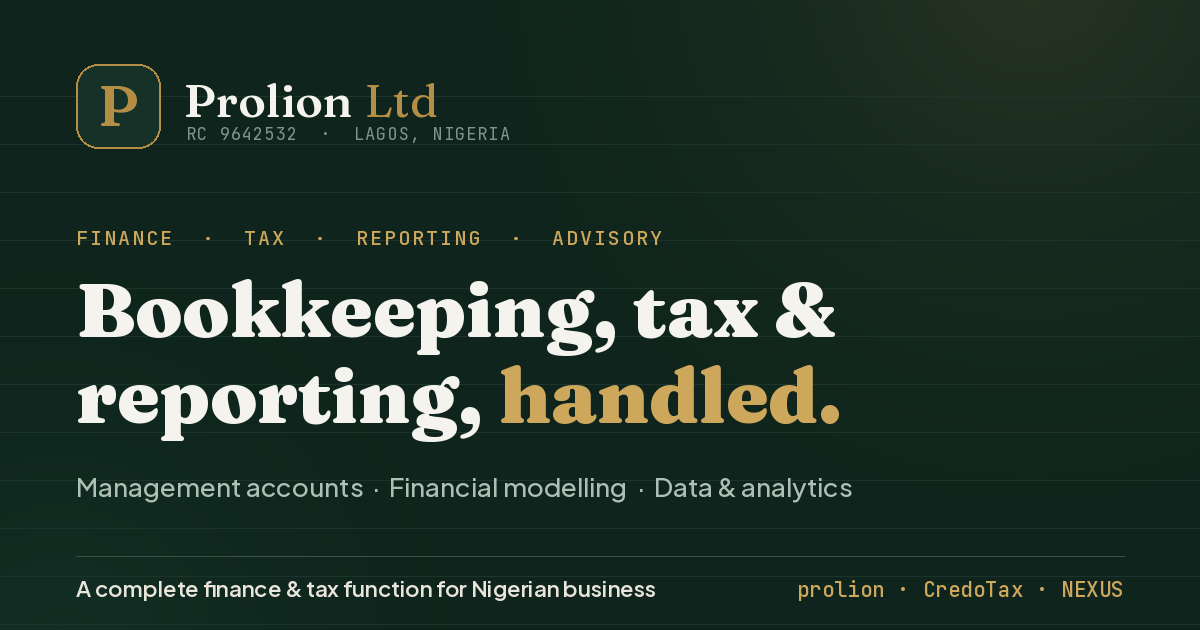
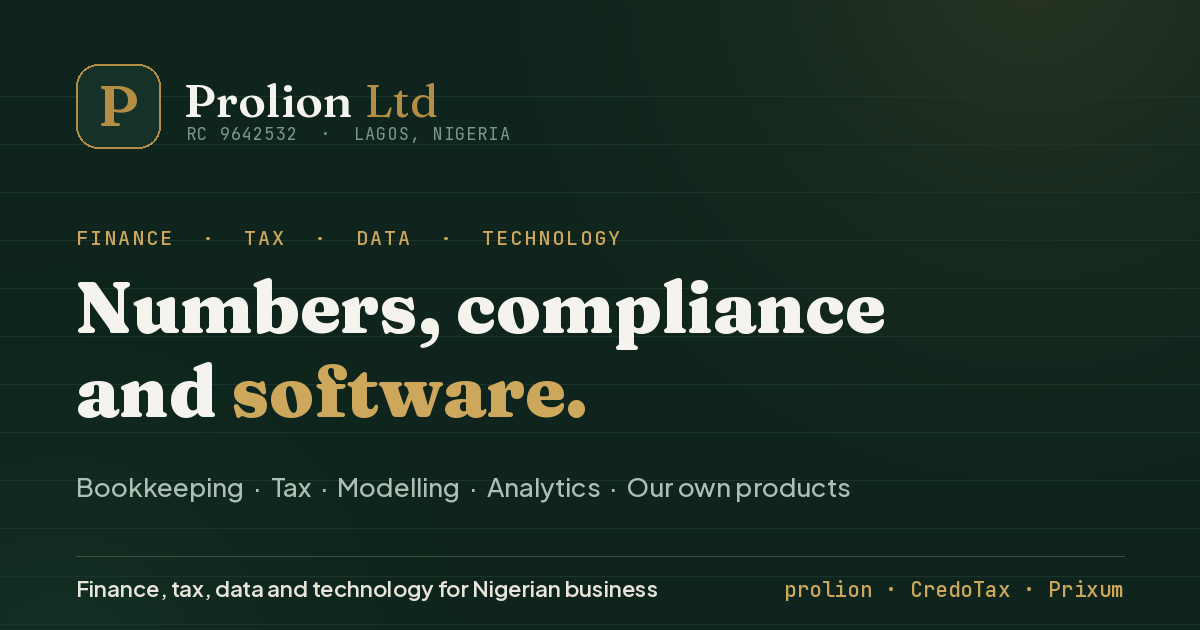
Add files via upload

diff --git a/README.md b/README.md
@@ -1,4 +1,4 @@
-# Prolion Integrated Services — Website
+# Prolion Ltd — Website
 
 A single-page static marketing site (one `index.html`, no build step, no dependencies).
 Fonts load from Google Fonts; the favicon is inline. It is ready to deploy to Vercel as-is.
